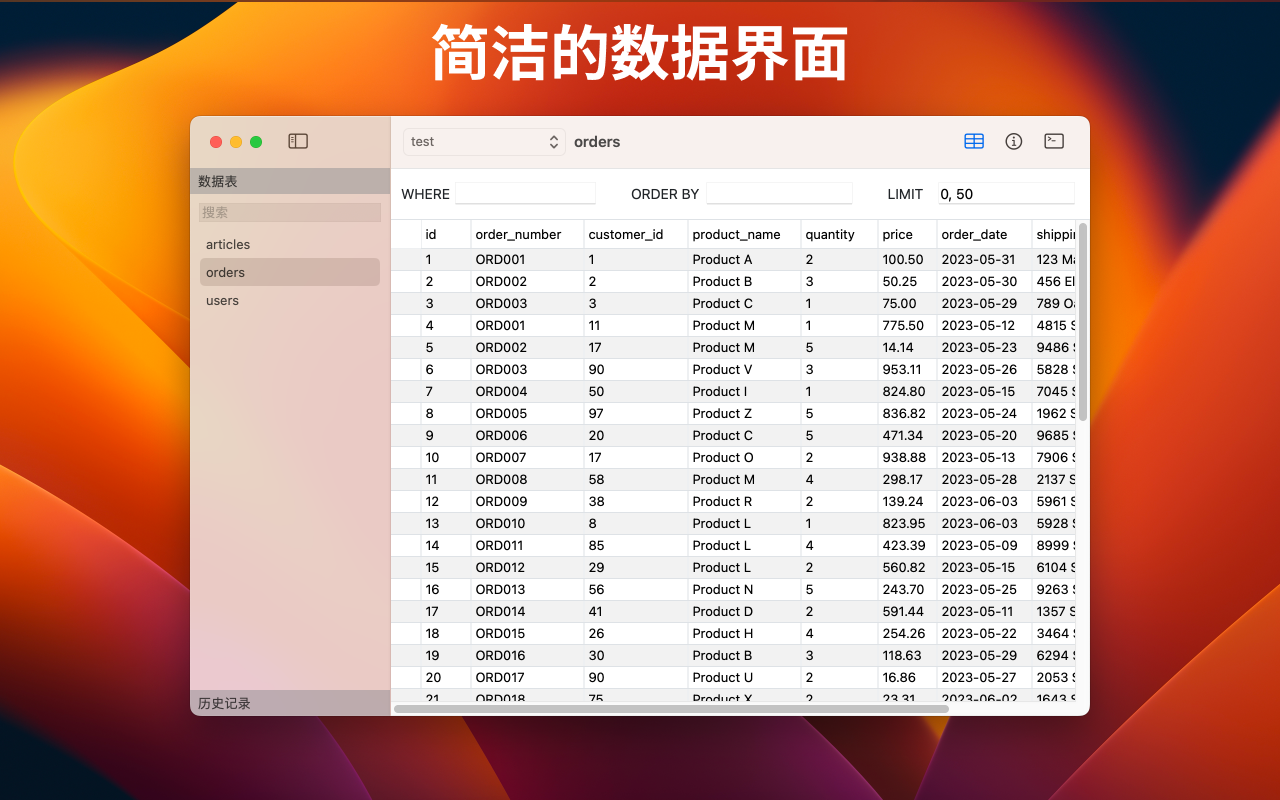
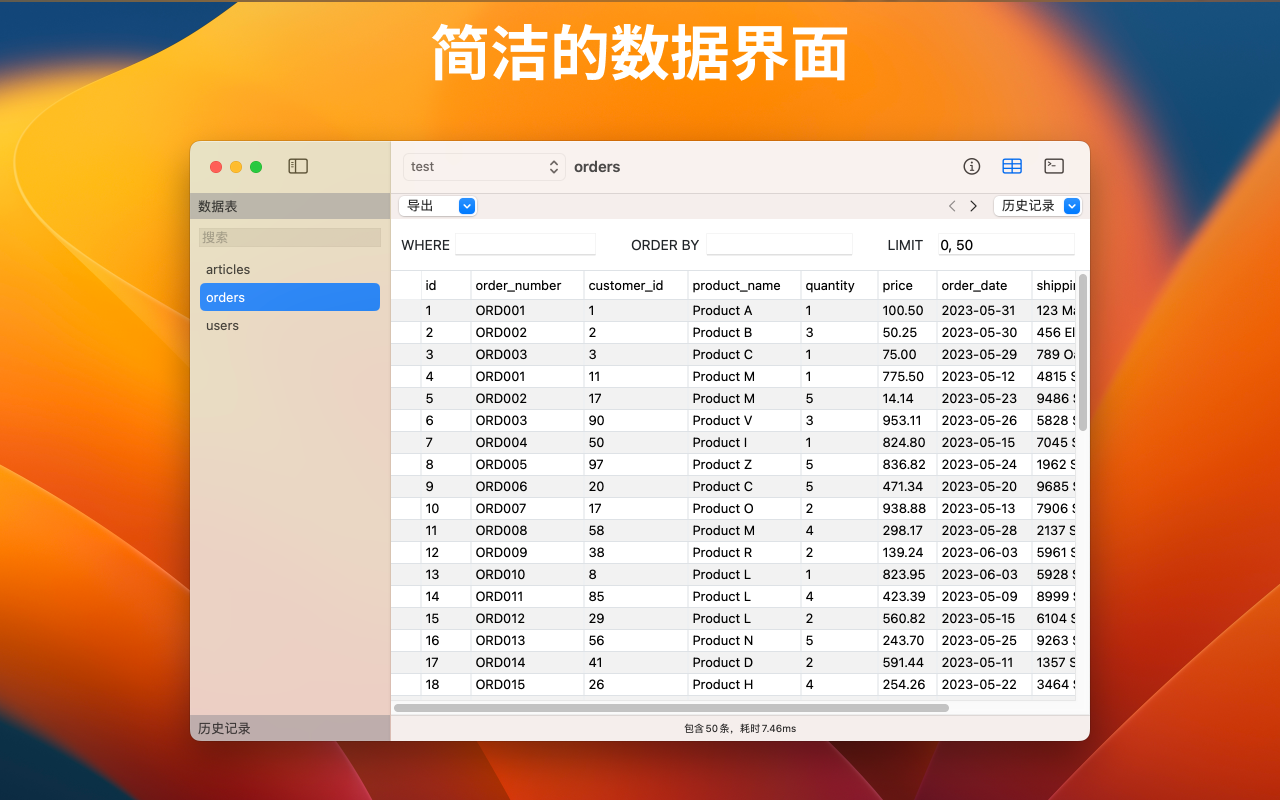
update

diff --git a/README.md b/README.md
@@ -27,3 +27,21 @@ App Store 的链接是：[Sqlman Mac App Store](https://apps.apple.com/cn/app/sq
 ![desc4](./resources/desc4.png)
 
 ![desc5](./resources/desc5.png)
+
+### 更新记录
+
+#### 2024-05-05 v1.0.4
+
+重启软件会保留历史查询记录
+增加底部状态栏
+添加导出为 JSON 和导出为 CSV 功能
+添加上下翻页功能
+国际化支持英语
+
+#### 2024-04-28 v1.0.3
+
+新增 App 内购买项目、数据查询体验优化
+
+#### 2024-04-25 v1.0.2
+
+优化应用图标、新增应用内授权付费项

diff --git a/privacy_policy.md b/privacy_policy.md
@@ -1,0 +1,3 @@
+# Sqlman Privacy Policy
+
+We didn't use any of your private information. Thank you.
